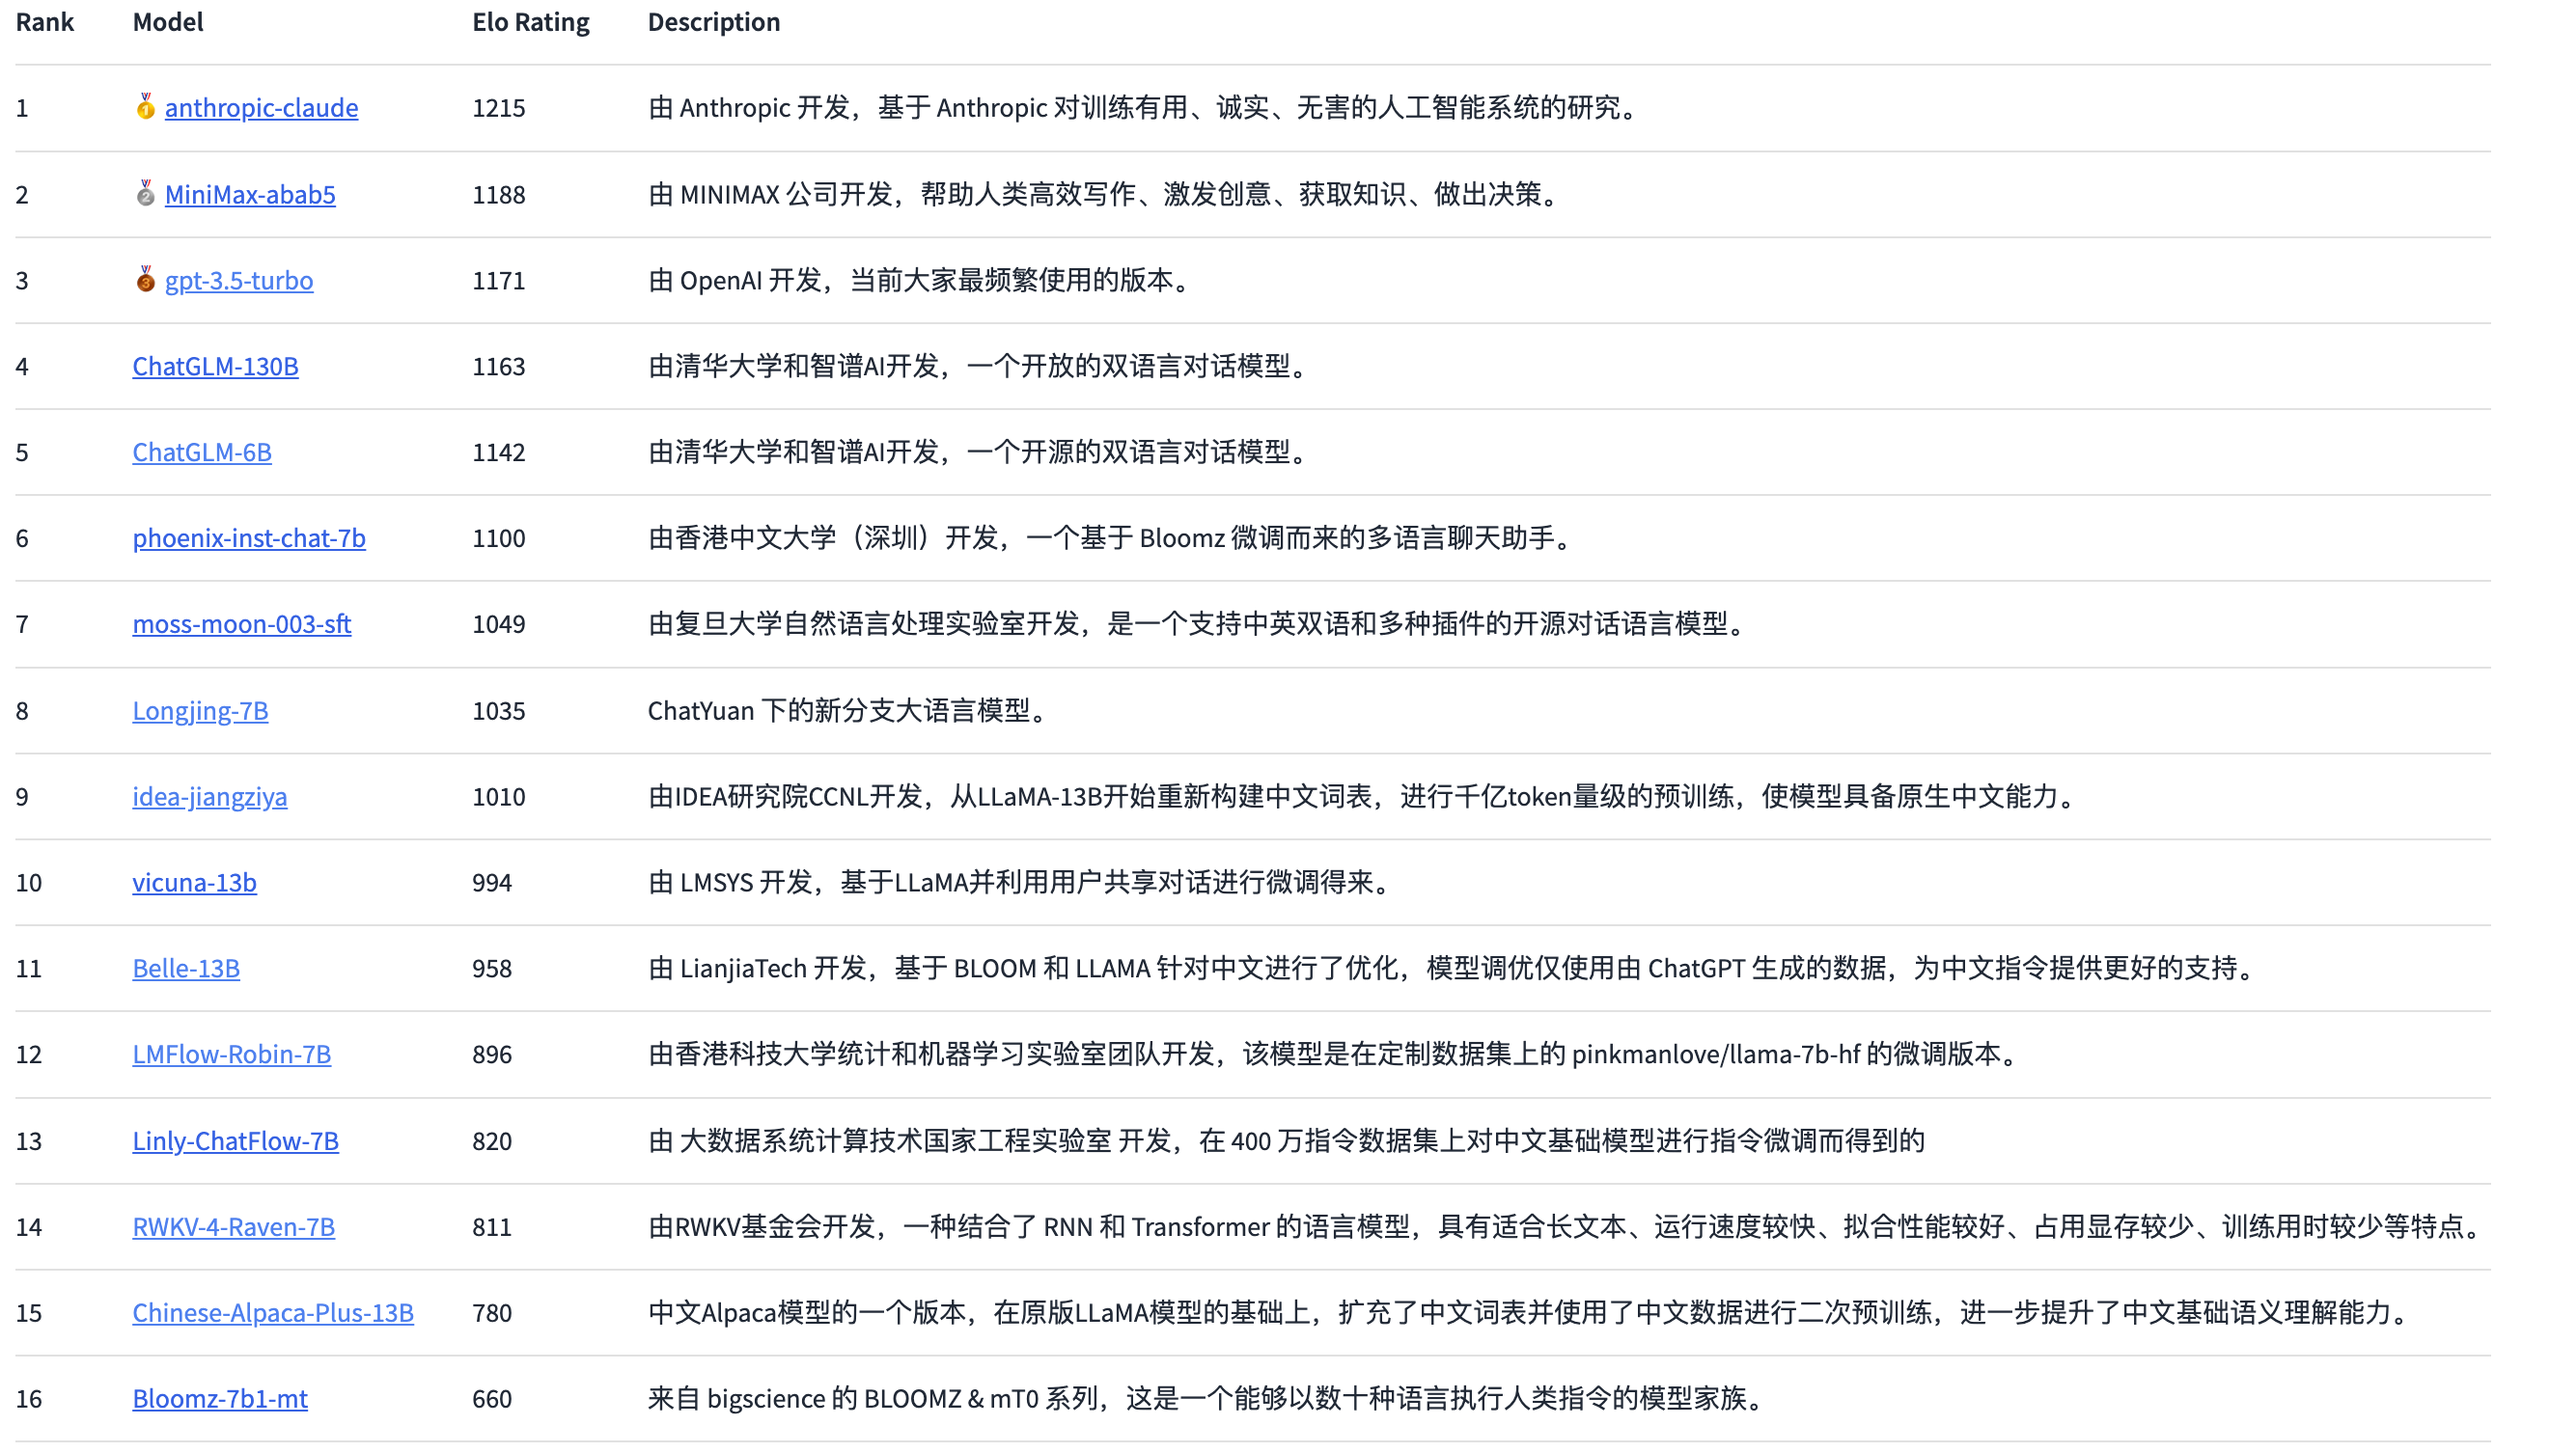
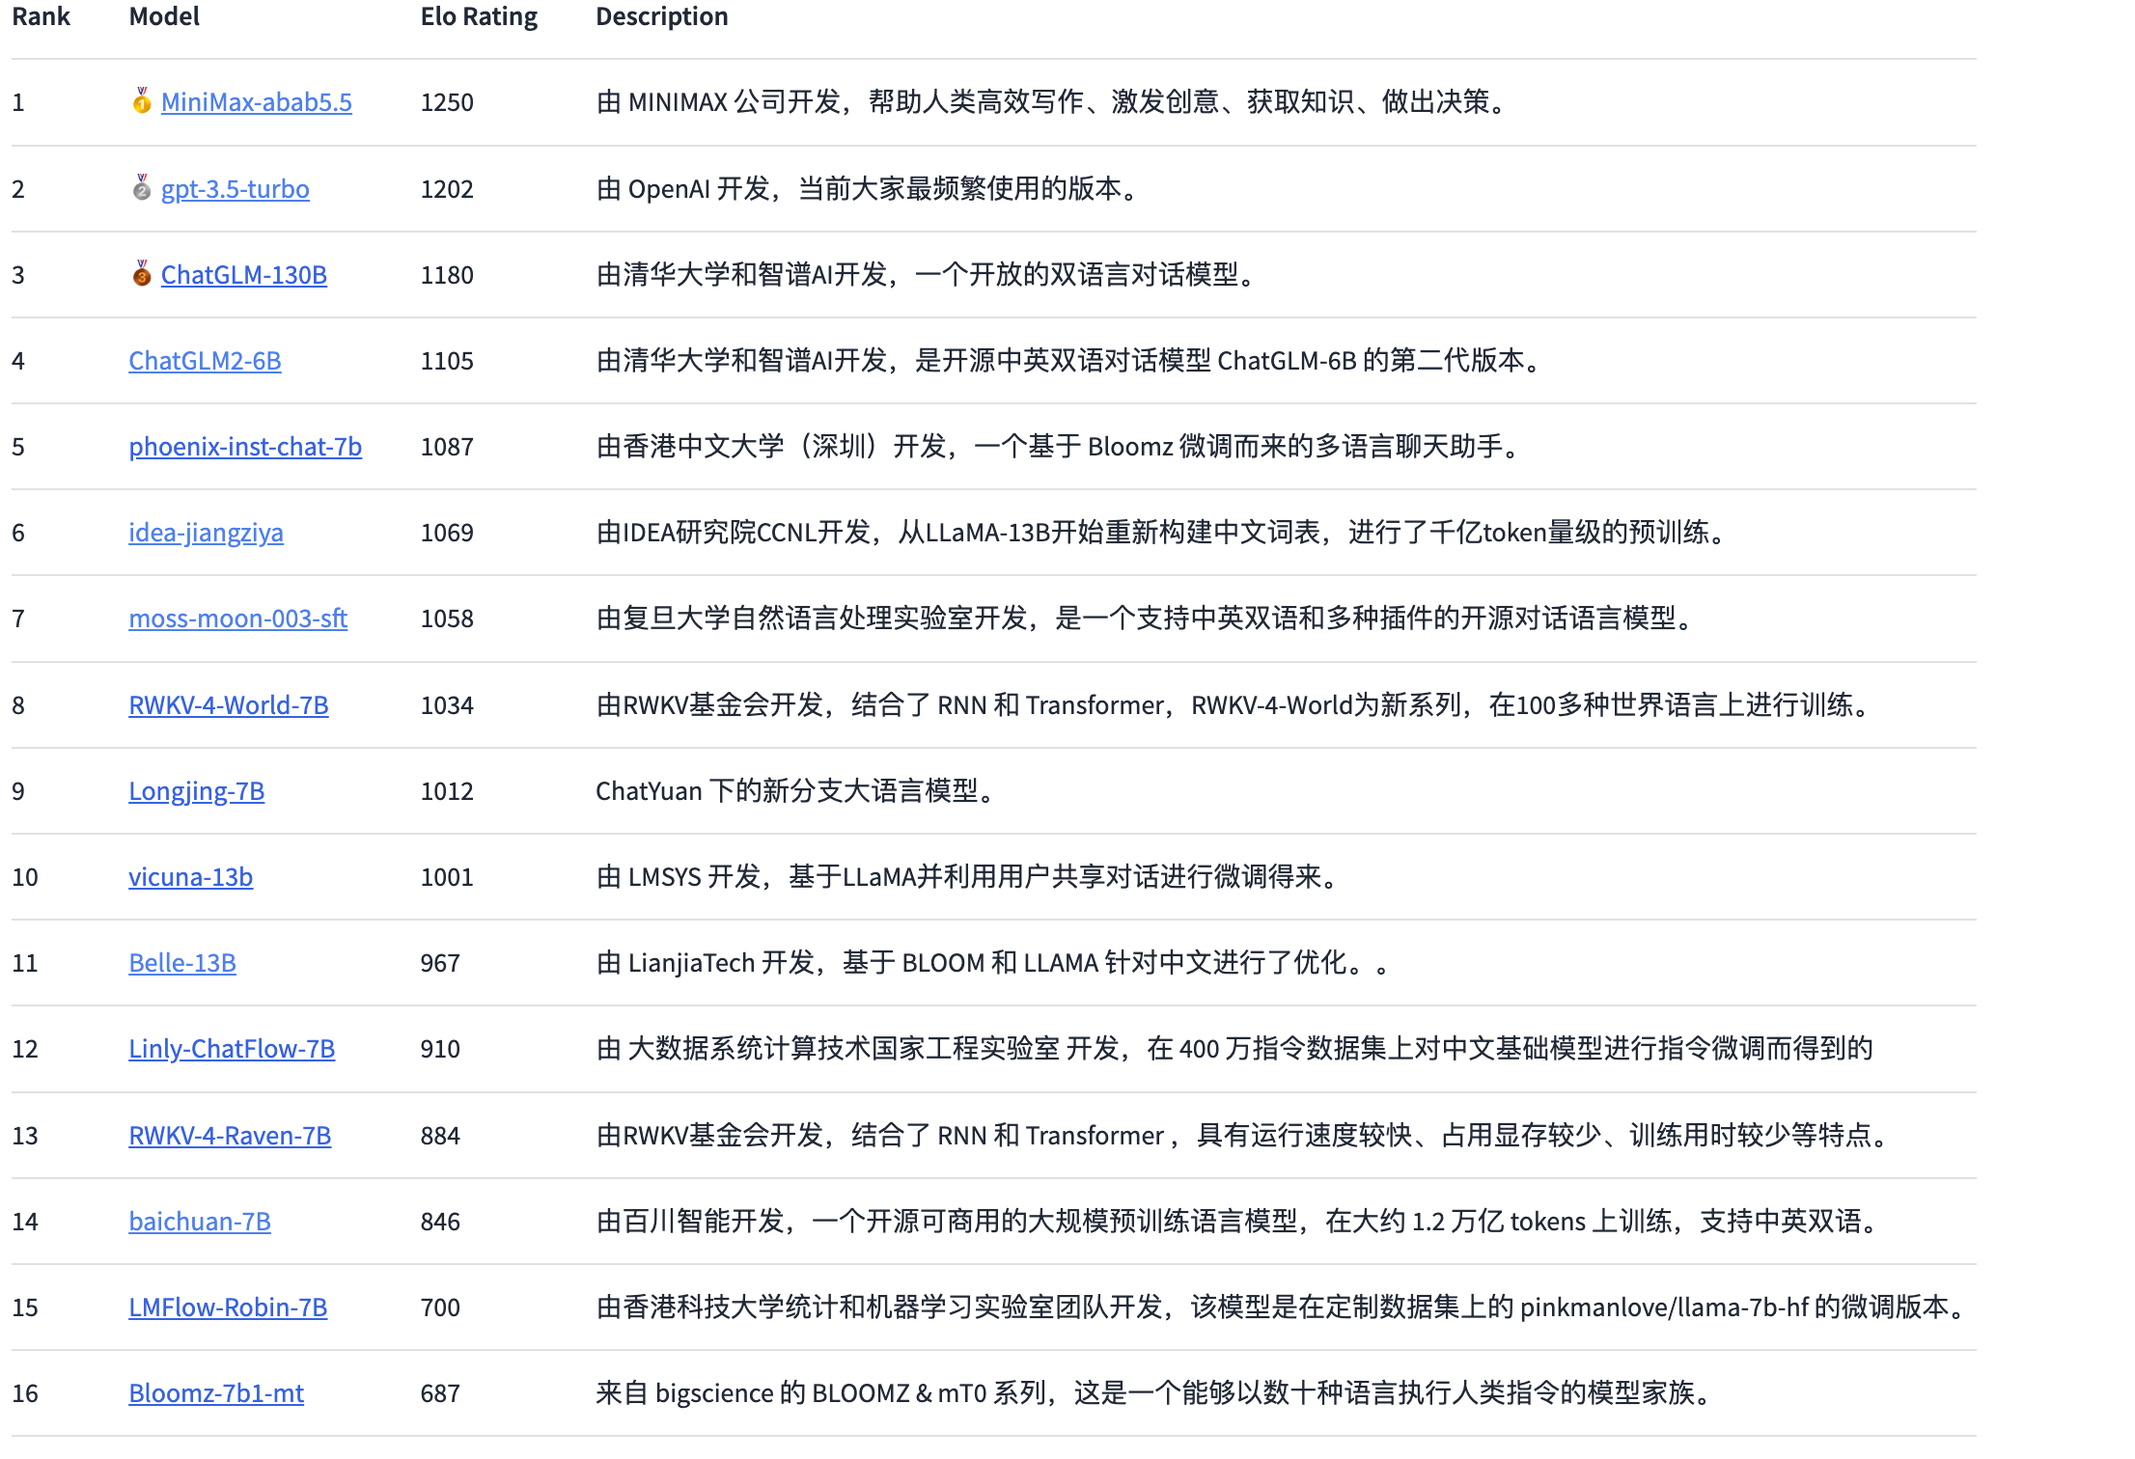
新增LLaMa-2，以及基于LLaMa-2的一些中文扩展模型

diff --git a/README.md b/README.md
@@ -114,6 +114,17 @@ ChatGPT爆火出圈，国内很多高校、研究机构和企业都发出类似C
 
         该项目开源地址是：https://github.com/baichuan-inc/baichuan-7B
 
+### XVERSE-13B（更新于2023年8月8日）
+ 
+        2023年8月6日，元象XVERSE团队开源XVERSE-13B模型，该模型是一个多语言大模型，支持语种多达40+，支持上下文语境长度达8192，根据团队介绍，该模型特点有：模型结构：XVERSE-13B使用主流Decoder-only的标准Transformer结构，支持8K的上下文长度，为同尺寸模型中最长，能满足更长的多轮对话、知识问答与摘要等需求；训练数据：构建了 1.4 万亿 token 的高质量、多样化的数据对模型进行充分训练，包含中、英、俄、西等 40 多种语言，通过精细化设置不同类型数据的采样比例，使得中英两种语言表现优异，也能兼顾其他语言效果；分词：基于BPE算法，使用上百GB语料训练了一个词表大小为100,278的分词器，能够同时支持多语言，而无需额外扩展词表；训练框架：自主研发多项关键技术，包括高效算子、显存优化、并行调度策略、数据-计算-通信重叠、平台和框架协同等，让训练效率更高，模型稳定性强，在千卡集群上的峰值算力利用率可达到58.5%，位居业界前列。
+
+        该项目开源地址是：https://github.com/xverse-ai/XVERSE-13B
+
+### 通义千问Qwen-7B（更新于2023年8月8日）
+ 
+        2023年8月3日，阿里通义千问70亿模型开源，包括通用模型和对话模型，并且开源、免费、可商用。据介绍，Qwen-7B是基于Transformer的大语言模型，在超大规模预训练数据上训练得到。预训练数据类型多样，覆盖广泛，包括大量网络文本、专业书籍、代码等。它是支持中、英等多种语言的基座模型，在超过2万亿token数据集上训练，上下文窗口长度达到8k。Qwen-7B-Chat是基于Qwen-7B基座模型的中英文对话模型。通义千问7B预训练模型在多个权威基准测评中表现出色，中英文能力远超国内外同等规模开源模型，部分能力甚至超过了12B、13B大小的开源模型。
+
+        该项目开源地址是：https://github.com/QwenLM/Qwen-7B
 
 ## 二、Alpaca模式篇
 
@@ -142,6 +153,12 @@ ChatGPT爆火出圈，国内很多高校、研究机构和企业都发出类似C
         该项目开源地址是：https://huggingface.co/tiiuae
 
         （更新于2023年7月3日）
+
+        原始的Falcon跟LLaMA一样对中文支持能力欠缺，“伶荔（Linly）”项目团队以Falcon模型为底，打造并开源了中文版Chinese-Falcon。该模型首先扩充大幅扩充了词表，包括了8701个常用汉字、jieba词表中前20000个中文高频词以及60个中文标点符号，去重后词表大小扩充为90046。在训练阶段分别采用50G语料和2T大规模数据进行训练。
+
+        该项目开源地址是：https://github.com/CVI-SZU/Linly
+
+        （更新于2023年7月24日）
 
         原始的Falcon跟LLaMA一样对中文支持能力欠缺，“伶荔（Linly）”项目团队以Falcon模型为底，打造并开源了中文版Chinese-Falcon。该模型首先扩充大幅扩充了词表，包括了8701个常用汉字、jieba词表中前20000个中文高频词以及60个中文标点符号，去重后词表大小扩充为90046。在训练阶段分别采用50G语料和2T大规模数据进行训练。
 
@@ -417,7 +434,45 @@ ChatGPT爆火出圈，国内很多高校、研究机构和企业都发出类似C
 
         该项目开源地址是：https://github.com/PKU-YuanGroup/ChatLaw
 
-## 三、通向AGI的开源之路
+### 飞天羊驼AlpaGasus（更新于2023年8月8日）
+ 
+        该项目是马里兰、三星和南加大的研究人员提出的，其针对Alpaca等方法构架的数据中包括很多质量低下的数据问题，提出了一种利用LLM自动识别和删除低质量数据的数据选择策略，不仅在测试中优于原始的Alpaca，而且训练速度更快。其基本思路是利用强大的外部大模型能力（如ChatGPT）自动评估每个（指令，输入，回应）元组的质量，对输入的各个维度如Accurac、Helpfulness进行打分，并过滤掉分数低于阈值的数据。
+
+        该项目开源地址是：https://lichang-chen.github.io/AlpaGasus
+
+## 三、LLaMa-2篇
+
+        2023年7月18日，Meta正式发布最新一代开源大模型，不但性能大幅提升，更是带来了商业化的免费授权，这无疑为万模大战更添一新动力，并推进大模型的产业化和应用。此次LLaMA2共发布了从70亿、130亿、340亿以及700亿参数的预训练和微调模型，其中预训练过程相比1代数据增长40%（1.4T到2T），上下文长度也增加了一倍（2K到4K），并采用分组查询注意力机制（GQA）来提升性能；微调阶段，带来了对话版Llama 2-Chat，共收集了超100万条人工标注用于SFT和RLHF。但遗憾的是原生模型对中文支持仍然较弱，采用的中文数据集并不多，只占0.13%。
+
+        随着LLaMa 2的开源开放，一些优秀的LLaMa 2微调版开始涌现：
+
+### Baby LLaMA 2 （更新于2023年8月8日）
+
+        该项工作是OpenAI创始成员Andrej Karpathy的一个比较有意思的项目，中文俗称羊驼宝宝2代，该模型灵感来自llama.cpp，只有1500万参数，但是效果不错，能说会道。
+
+        该项目开源地址是：https://github.com/karpathy/llama2.c
+
+### FreeWilly2 （更新于2023年8月8日）
+
+        该项目是由Stability AI和CarperAI实验室联合发布的基于LLaMA-2-70B模型的微调模型，模型采用了Alpaca范式，并经过SFT的全新合成数据集来进行训练，是LLaMA-2微调较早的成果之一。该模型在很多方面都表现出色，包括复杂的推理、理解语言的微妙之处，以及回答与专业领域相关的复杂问题。
+
+        该项目开源地址是：https://huggingface.co/stabilityai/FreeWilly2
+
+### Chinese-Llama-2-7b （更新于2023年8月8日）
+
+        该项目是由国内AI初创公司LinkSoul.Al推出，其在Llama-2-7b的基础上使用了1000万的中英文SFT数据进行微调训练，大幅增强了中文能力，弥补了原生模型在中文上的缺陷。
+
+        该项目开源地址是：https://github.com/LinkSoul-AI/Chinese-Llama-2-7b
+
+### OpenBuddy-LLaMA2-13B （更新于2023年8月8日）
+
+        该项目是由OpenBuddy团队发布的，是基于Llama-2微调后的另一个中文增强模型。
+
+        该项目开源地址是：https://huggingface.co/OpenBuddy/openbuddy-llama2-13b-v8.1-fp16
+
+
+
+## 四、通向AGI的开源之路
 
         ChatGPT的出现使大家振臂欢呼AGI时代的到来，是打开通用人工智能的一把关键钥匙。但ChatGPT仍然是一种人机交互对话形式，针对你唤醒的指令问题进行作答，还没有产生通用的自主的能力。但随着AutoGPT的出现，人们已经开始向这个方向大跨步的迈进。
 
@@ -461,7 +516,7 @@ ChatGPT爆火出圈，国内很多高校、研究机构和企业都发出类似C
 
         该项目的开源地址是：https://github.com/camel-ai/camel
 
-## 四、榜单篇
+## 五、榜单篇
 
         ChatGPT引爆了大模型的火山式喷发，琳琅满目的大模型出现在我们目前，本项目也汇聚了特别多的开源模型。但这些模型到底水平如何，还需要标准的测试。截止目前，大模型的评测逐渐得到重视，一些评测榜单也相继发布，因此，也汇聚在此处，供大家参考，以辅助判断模型的优劣。
 
@@ -471,7 +526,7 @@ ChatGPT爆火出圈，国内很多高校、研究机构和企业都发出类似C
 
         榜单部分如下，详见：https://huggingface.co/spaces/HuggingFaceH4/open_llm_leaderboard
 
-        更新于2023年6月13日
+        更新于2023年8月8日
 
 ![Open LLM Leaderboard 更新于2023年6月13日](images/Open-LLM-Leaderboard.png)
 
@@ -481,7 +536,7 @@ ChatGPT爆火出圈，国内很多高校、研究机构和企业都发出类似C
 
         榜单部分如下，详见：https://cevalbenchmark.com/static/leaderboard.html
 
-        更新于2023年6月28日
+        更新于2023年8月8日
 
 ![C-Eval  更新于2023年6月13日](images/ceval.png)
 
@@ -491,7 +546,7 @@ ChatGPT爆火出圈，国内很多高校、研究机构和企业都发出类似C
 
         榜单部分如下，详见：https://www.superclueai.com/
 
-        更新于2023年6月13日
+        更新于2023年8月8日
 
 ![SuperCLUE 更新于2023年6月13日](images/superclue.png)
 
@@ -501,11 +556,11 @@ ChatGPT爆火出圈，国内很多高校、研究机构和企业都发出类似C
 
         榜单部分如下，详见：https://tatsu-lab.github.io/alpaca_eval/
 
-                更新于2023年6月28日
+                更新于2023年8月8日
 
 ![AlpacaEval 更新于2023年6月15日](images/AlpacaEval.png)
 
-## 五、语料篇
+## 六、语料篇
 
 ### 开源传统对话语料
 
